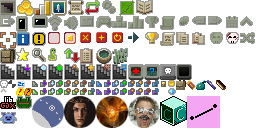
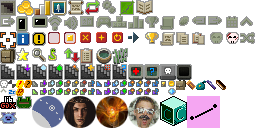
v3.3.5: added a new emoicon for investigating and improved emoicon code
(cherry picked from commit 5dcabd4e5014de1d8aac8418096106e612590601)

Changed region(s): [[0.0312, 0.625, 0.125, 0.75], [0.0, 0.25, 0.0625, 0.375]]

diff --git a/core/src/main/java/com/shatteredpixel/shatteredpixeldungeon/effects/EmoIcon.java b/core/src/main/java/com/shatteredpixel/shatteredpixeldungeon/effects/EmoIcon.java
@@ -22,17 +22,19 @@
 package com.shatteredpixel.shatteredpixeldungeon.effects;
 
 import com.shatteredpixel.shatteredpixeldungeon.scenes.GameScene;
+import com.shatteredpixel.shatteredpixeldungeon.scenes.PixelScene;
 import com.shatteredpixel.shatteredpixeldungeon.sprites.CharSprite;
 import com.shatteredpixel.shatteredpixeldungeon.ui.Icons;
 import com.watabou.noosa.Game;
 import com.watabou.noosa.Image;
+import com.watabou.utils.PointF;
 import com.watabou.utils.Random;
 
 public class EmoIcon extends Image {
 
 	protected float maxSize = 2;
 	protected float timeScale = 1;
-	
+
 	protected boolean growing	= true;
 	
 	protected CharSprite owner;
@@ -47,7 +49,7 @@ public class EmoIcon extends Image {
 	@Override
 	public void update() {
 		super.update();
-		
+
 		if (visible) {
 			if (growing) {
 				scale.set( Math.min(scale.x + Game.elapsed * timeScale, maxSize ));
@@ -60,11 +62,18 @@ public class EmoIcon extends Image {
 					growing = true;
 				}
 			}
-			
-			x = owner.x + owner.width() - width / 2;
-			y = owner.y - height;
+
+			if (camera != null) {
+				PointF center = centerPoint();
+				x = PixelScene.align(camera, owner.x + owner.width() - center.x);
+				y = PixelScene.align(camera, owner.y - center.y);
+			}
 		}
 	}
+
+	protected PointF centerPoint(){
+		return new PointF(width()/2f, height()/2f);
+	};
 	
 	public static class Sleep extends EmoIcon {
 		
@@ -77,11 +86,16 @@ public class EmoIcon extends Image {
 			maxSize = 1.2f;
 			timeScale = 0.5f;
 			
-			origin.set( width / 2, height / 2 );
 			scale.set( Random.Float( 1, maxSize ) );
 
 			x = owner.x + owner.width - width / 2;
 			y = owner.y - height;
+		}
+
+		@Override
+		protected PointF centerPoint(){
+			//centered and significantly up
+			return new PointF(width()/2f, 4f+ height()/2f);
 		}
 	}
 	
@@ -96,11 +110,40 @@ public class EmoIcon extends Image {
 			maxSize = 1.3f;
 			timeScale = 2;
 			
-			origin.set( 2.5f, height - 2.5f );
 			scale.set( Random.Float( 1, maxSize ) );
 
 			x = owner.x + owner.width - width / 2;
 			y = owner.y - height;
+		}
+
+		@Override
+		protected PointF centerPoint(){
+			//up and left, and centers at the bottom-left
+			return new PointF(2.5f + 0.25f*width(), 2.5f + 0.75f*height());
+		}
+	}
+
+	public static class Investigate extends EmoIcon {
+
+		public Investigate( CharSprite owner ) {
+
+			super( owner );
+
+			copy( Icons.get( Icons.INVESTIGATE ) );
+
+			maxSize = 1.3f;
+			timeScale = 1.5f;
+
+			scale.set( Random.Float( 1, maxSize ) );
+
+			x = owner.x + owner.width - width / 2;
+			y = owner.y - height;
+		}
+
+		@Override
+		protected PointF centerPoint(){
+			//up and left, and centers at the bottom-left
+			return new PointF(2.5f + 0.25f*width(), 2.5f + 0.75f*height());
 		}
 	}
 	
@@ -114,13 +157,17 @@ public class EmoIcon extends Image {
 			maxSize = 1.25f;
 			timeScale = 1;
 			
-			origin.set( 2.5f, height - 2.5f );
 			scale.set( Random.Float( 1, maxSize ) );
 			
 			x = owner.x + owner.width - width / 2;
 			y = owner.y - height;
 		}
-		
+
+		@Override
+		protected PointF centerPoint(){
+			//up and left, and centers at the bottom-left
+			return new PointF(2.5f + 0.25f*width(), 2.5f + 0.75f*height());
+		}
 	}
 
 }

diff --git a/core/src/main/java/com/shatteredpixel/shatteredpixeldungeon/ui/Icons.java b/core/src/main/java/com/shatteredpixel/shatteredpixeldungeon/ui/Icons.java
@@ -110,6 +110,7 @@ public enum Icons {
     SLEEP,
     ALERT,
     LOST,
+	INVESTIGATE,
     DEPTH,      //depth icons have three variants, for regular, seeded, daily, and daily replay runs
     DEPTH_CHASM,
     DEPTH_WATER,
@@ -351,13 +352,16 @@ public enum Icons {
                 icon.frame( icon.texture.uvRectBySize( 0, 88, 7, 5 ) );
                 break;
             case SLEEP:
-                icon.frame( icon.texture.uvRectBySize( 16, 80, 9, 8 ) );
+				icon.frame( icon.texture.uvRectBySize( 7, 88, 9, 8 ) );
                 break;
             case ALERT:
-                icon.frame( icon.texture.uvRectBySize( 16, 88, 8, 8 ) );
+				icon.frame( icon.texture.uvRectBySize( 16, 80, 8, 8 ) );
                 break;
             case LOST:
-                icon.frame( icon.texture.uvRectBySize( 24, 88, 8, 8 ) );
+				icon.frame( icon.texture.uvRectBySize( 24, 80, 8, 8 ) );
+				break;
+			case INVESTIGATE:
+				icon.frame( icon.texture.uvRectBySize( 16, 88, 8, 8 ) );
                 break;
             case DEPTH:
                 icon.frame( icon.texture.uvRectBySize( 32 + runTypeOfsX(), 80 + runTypeOfsY(), 6, 7 ) );

diff --git a/core/src/main/java/com/shatteredpixel/shatteredpixeldungeon/sprites/CharSprite.java b/core/src/main/java/com/shatteredpixel/shatteredpixeldungeon/sprites/CharSprite.java
@@ -694,6 +694,27 @@ public class CharSprite extends MovieClip implements Tweener.Listener, MovieClip
 			}
 		}
 	}
+
+	public void showInvestigate() {
+		synchronized (EmoIcon.class) {
+			if (!(emo instanceof EmoIcon.Investigate)) {
+				if (emo != null) {
+					emo.killAndErase();
+				}
+				emo = new EmoIcon.Investigate(this);
+				emo.visible = visible;
+			}
+		}
+	}
+
+	public void hideInvestigate() {
+		synchronized (EmoIcon.class) {
+			if (emo instanceof EmoIcon.Investigate) {
+				emo.killAndErase();
+				emo = null;
+			}
+		}
+	}
 	
 	public void showLost() {
 		synchronized (EmoIcon.class) {
